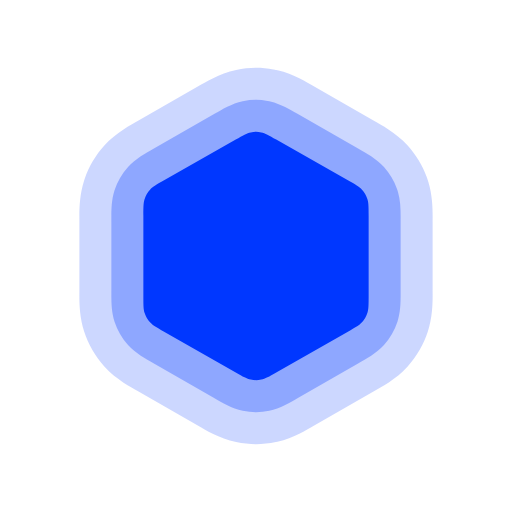
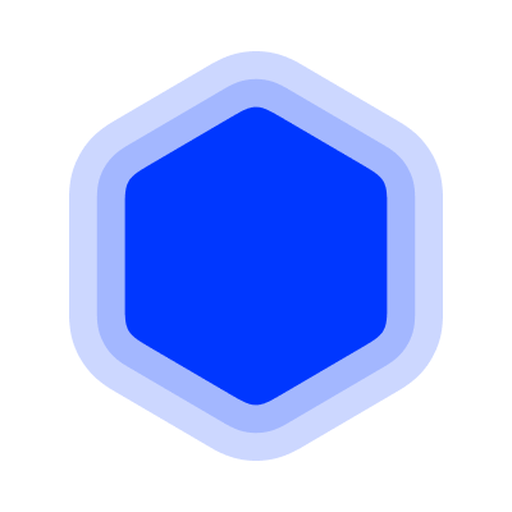
스와이프 시 탭 표시를 스크롤 연동 CSS 애니메이션으로(메인 스레드 갱신 제거), 스와이프 중 저장 지연·눌림 효과 지연, 타이머 하단 28pt, 아이콘 교체
Claude-Session: https://claude.ai/code/session_01EFYgkJpoynD9CeUVREE259

Changed region(s): [[0.125, 0.0938, 0.875, 0.9062]]

diff --git a/index.html b/index.html
@@ -9,9 +9,8 @@
 <meta name="apple-mobile-web-app-status-bar-style" content="default">
 <title>운동일지</title>
 <link rel="manifest" href="manifest.webmanifest">
-<link rel="apple-touch-icon" sizes="180x180" href="icon-180.png?v=2">
-<link rel="icon" type="image/svg+xml" href="icon.svg?v=2">
-<link rel="icon" type="image/png" sizes="192x192" href="icon-192.png?v=2">
+<link rel="apple-touch-icon" sizes="180x180" href="icon-180.png?v=3">
+<link rel="icon" type="image/png" sizes="192x192" href="icon-192.png?v=3">
 <meta name="theme-color" content="#eceef2" media="(prefers-color-scheme: light)">
 <meta name="theme-color" content="#0e1013" media="(prefers-color-scheme: dark)">
 <style>
@@ -33,6 +32,10 @@ header{background:var(--bg);padding:6px 12px 0}
 nav{display:flex;gap:4px;padding:4px 0 10px;position:relative}
 nav button{flex:1 1 0;min-width:0;text-align:center;height:46px;--r:12px;border-radius:var(--r);font-weight:700;font-size:16px;color:var(--mu);position:relative;z-index:1;transition:color .28s cubic-bezier(.25,1,.5,1)}
 nav button.on{color:#fff}
+body{timeline-scope:--pg}
+#pg{scroll-timeline:--pg x}
+@keyframes tbm{from{transform:translate3d(var(--x0),0,0)}to{transform:translate3d(var(--x1),0,0)}}
+#tbi.sd{animation:tbm 1s linear both;animation-timeline:--pg}
 #tbi{position:absolute;left:0;top:4px;height:46px;width:0;--r:12px;border-radius:var(--r);background:var(--ac);will-change:transform;pointer-events:none;transition:transform var(--d) var(--e)}
 #pg{flex:1;min-height:0;display:flex;overflow-x:auto;overflow-y:hidden;scroll-snap-type:x mandatory;scrollbar-width:none;overscroll-behavior-x:contain}
 #pg::-webkit-scrollbar{display:none}
@@ -118,7 +121,7 @@ nav button.on{color:#fff}
 .mn{display:flex;flex-direction:column;gap:8px;margin:0 0 14px}
 .mn .bk{text-align:center;color:var(--mu);font-size:13px;font-weight:600}
 .mn button{height:52px;--r:14px;border-radius:var(--r);background:var(--in);font-weight:700;font-size:17px}
-#tw{--tg:max(8px,calc(env(safe-area-inset-bottom,0px) - 16px));position:absolute;left:var(--tg);right:var(--tg);bottom:var(--tg);z-index:4;filter:drop-shadow(0 -1px 10px var(--sh))}
+#tw{--tg:max(8px,calc(env(safe-area-inset-bottom,0px) - 16px));position:absolute;left:var(--tg);right:var(--tg);bottom:max(8px,calc(env(safe-area-inset-bottom,0px) - 6px));z-index:4;filter:drop-shadow(0 -1px 10px var(--sh))}
 html{background:var(--cd)}
 w-in{display:block;box-sizing:border-box;white-space:nowrap;overflow:hidden;cursor:text;-webkit-user-select:text;user-select:text;-webkit-tap-highlight-color:transparent;caret-color:var(--ac)}
 w-in.ch{caret-color:transparent}
@@ -336,26 +339,36 @@ function build(){
 }
 function mark(noInd){[...$('#tb').querySelectorAll('button')].forEach((b,i)=>{if(b.classList.contains('on')!==(i===(tabGo>=0?tabGo:cur)))b.classList.toggle('on',i===(tabGo>=0?tabGo:cur))});if(tabGo<0&&!noInd)ind()}
 /* 선택 표시: 페이지가 넘어가는 만큼 같이 미끄러진다(스와이프·탭 모두) */
-function tabX(i){
-  const nb=$('#tb'),bs=nb.querySelectorAll('button'),nl=nb.getBoundingClientRect().left;
-  const L=k=>{const r=bs[k].getBoundingClientRect();return{x:r.left-nl,w:r.width}};
-  const a=Math.max(0,Math.min(bs.length-1,Math.floor(i))),b=Math.min(bs.length-1,a+1),f=Math.max(0,Math.min(1,i-a));
-  const A=L(a),B=L(b);return{x:A.x+(B.x-A.x)*f,w:A.w+(B.w-A.w)*f};
+/* 선택 표시 위치: 버튼은 같은 너비·간격이라 첫 버튼과 마지막 버튼 위치만 알면 된다 */
+const SD=!!(window.CSS&&CSS.supports&&CSS.supports('animation-timeline','--a')&&CSS.supports('timeline-scope','--a')&&CSS.supports('scroll-timeline','--a x'));
+let G=null;
+function geo(){
+  const t=$('#tbi'),nb=$('#tb'),bs=nb.querySelectorAll('button');if(!t||!bs.length)return;
+  const nl=nb.getBoundingClientRect().left,a=bs[0].getBoundingClientRect(),z=bs[bs.length-1].getBoundingClientRect();
+  const r=v=>Math.round(v*100)/100,w=r(a.width),x0=r(a.left-nl),x1=r(z.left-nl);
+  if(G&&G.t===t&&G.w===w&&G.x0===x0&&G.x1===x1)return;
+  G={t,w,x0,x1,n:bs.length};
+  t.style.width=w+'px';t.style.setProperty('--w',w+'px');t.style.setProperty('--h','46px');
+  t.style.setProperty('--x0',x0+'px');t.style.setProperty('--x1',x1+'px');
 }
-function ind(follow){
-  const t=$('#tbi'),bs=$('#tb').querySelectorAll('button');if(!t||!bs.length)return;
-  let pos;
-  if(follow){pos=Math.max(0,Math.min(bs.length-1,pg.scrollLeft/(pg.clientWidth||1)));t.style.transition='none'}
-  else{pos=cur;t.style.transition=''}
-  place(t,tabX(pos));
-}
-function place(t,p){
-  const w=Math.round(p.w*100)/100,x=Math.round(p.x*100)/100;
-  if(t._bw!==w){t._bw=w;t.style.width=w+'px';t.style.setProperty('--w',w+'px');t.style.setProperty('--h','46px')}
+const xAt=p=>Math.round((G.x0+(G.n>1?(G.x1-G.x0)*Math.max(0,Math.min(G.n-1,p))/(G.n-1):0))*100)/100;
+const pgPos=()=>pg.scrollLeft/(pg.clientWidth||1);
+function setX(t,x,anim){
+  const tr=anim?'':'none';if(t._tr!==tr){t._tr=tr;t.style.transition=tr}
   if(t._x!==x){t._x=x;t.style.transform='translate3d('+x+'px,0,0)'}
 }
+/* 스크롤 연동을 잠시 멈추고 지금 위치를 그대로 고정(탭 이동·화면 다시 그리기 전) */
+function freeze(t){
+  if(!t.classList.contains('sd'))return;
+  setX(t,xAt(pgPos()),0);t.classList.remove('sd');getComputedStyle(t).transform;
+}
+function ind(follow){
+  const t=$('#tbi');if(!t)return;geo();if(!G)return;
+  if(SD){if(tabGo<0)t.classList.add('sd');return}
+  setX(t,xAt(follow?pgPos():cur),!follow);
+}
 
-let tabMove=0,tabT=0,navT=0,tabGo=-1,goT=0;
+let tabMove=0,tabT=0,navT=0,tabGo=-1,goT=0,svT=0;
 /* 입력 중에 부위 탭을 누르면: 키보드 정리(여백·스크롤 복귀)는 탭 이동이 끝난 뒤 조용히 처리 */
 $('#tb').addEventListener('pointerdown',()=>{
   navT=performance.now();
@@ -369,13 +382,28 @@ $('#tb').onclick=e=>{
   if(a&&a.matches&&a.matches('w-in,input,textarea')&&a.closest('.pn')){tabMove=1;clearTimeout(tabT);a.blur();tabT=setTimeout(()=>{tabMove=0;hardRelease()},700)}
   root.classList.remove('kbo');
   tabGo=+b.dataset.i;goT=performance.now();
-  const t=$('#tbi');if(t){t.style.transition='';place(t,tabX(tabGo))}
+  const t=$('#tbi');if(t){geo();freeze(t);setX(t,xAt(tabGo),1)}
   mark();
   pg.scrollTo({left:b.dataset.i*pg.clientWidth,behavior:'smooth'});
+  settle(tabGo);
 };
+/* 탭 이동 스크롤이 끝나면 다시 스크롤 연동으로(같은 위치라 튀지 않음) */
+let stTok=0;
+function settle(i){
+  const tok=++stTok,t0=performance.now();let last=-1,still=0;
+  const step=()=>{
+    if(tok!==stTok||tabGo!==i)return;
+    const x=pg.scrollLeft;still=Math.abs(x-last)<.5?still+1:0;last=x;
+    const el=performance.now()-t0;
+    if((still>=3&&Math.abs(x-i*pg.clientWidth)<1&&el>DUR+40)||el>1400){tabGo=-1;mark();return}
+    requestAnimationFrame(step);
+  };
+  requestAnimationFrame(step);
+}
 pg.addEventListener('scroll',()=>{
   if(building)return;
-  if(tabGo<0||performance.now()-goT>900){tabGo=-1;ind(1)}
+  if(tabGo>=0&&performance.now()-goT>1500){tabGo=-1;mark()}
+  if(tabGo<0&&!SD)ind(1);
   if(!tabMove&&Math.abs(pg.scrollLeft-cur*pg.clientWidth)>24){
     const a=document.activeElement;
     if(a&&a.matches&&a.matches('w-in,input,textarea')&&a.closest('.pn')){
@@ -384,10 +412,10 @@ pg.addEventListener('scroll',()=>{
     }
   }
   const i=Math.round(pg.scrollLeft/pg.clientWidth);
-  if(i!==cur&&i>=0&&i<S.tabs.length){cur=i;S.t=i;lsave()}
+  if(i!==cur&&i>=0&&i<S.tabs.length){cur=i;S.t=i;clearTimeout(svT);svT=setTimeout(lsave,450)}
   mark(1);
 },{passive:true});
-function resync(){if(building||performance.now()-navT<900)return;const x=cur*pg.clientWidth;if(Math.abs(pg.scrollLeft-x)>2)pg.scrollLeft=x;mark()}
+function resync(){G=null;if(building||performance.now()-navT<900)return;const x=cur*pg.clientWidth;if(Math.abs(pg.scrollLeft-x)>2)pg.scrollLeft=x;mark()}
 addEventListener('resize',resync);addEventListener('pageshow',resync);
 document.addEventListener('visibilitychange',()=>{if(!document.hidden)resync()});
 
@@ -616,7 +644,7 @@ async function editEx(c){
 }
 pg.addEventListener('pointerdown',ev=>{
   const h=ev.target.closest('.h');if(!h||ev.target.closest('button'))return;
-  lx=ev.clientX;ly=ev.clientY;lc=h.closest('.c');lc.classList.add('pr');
+  lx=ev.clientX;ly=ev.clientY;lc=h.closest('.c');{const c=lc;clearTimeout(c._pp);c._pp=setTimeout(()=>{if(lt&&lc===c)c.classList.add('pr')},90)}
   clearTimeout(lt);
   lt=setTimeout(()=>{lt=0;lp=1;dgEl.classList.add('hold');editEx(lc)},420);
 });
@@ -646,7 +674,7 @@ $('#pl').onclick=e=>{
   const b=e.target.closest('button');if(!b)return;
   const l=+b.dataset.l;if(l===S.loc)return;
   S.loc=l;save();markPl();
-  tabGo=cur;goT=performance.now();build();
+  tabGo=cur;goT=performance.now();{const t=$('#tbi');if(t){geo();freeze(t);setX(t,xAt(cur),0)}}build();
   requestAnimationFrame(()=>requestAnimationFrame(()=>{pg.scrollLeft=cur*pg.clientWidth;if(tabGo===cur)tabGo=-1;mark()}));
   panels.forEach(p=>{p.querySelector('.ps').scrollTop=0});
   if(DUR)pg.animate([{opacity:0,transform:'translateY(8px)'},{opacity:1,transform:'none'}],{duration:DUR,easing:EZ});
@@ -690,7 +718,7 @@ $('#ti').onclick=()=>{
 
 build();mark();markPl();
 requestAnimationFrame(()=>pg.scrollTo({left:cur*pg.clientWidth}));
-const BUILD='20261106q';
+const BUILD='20261106r';
 async function chk(){
   try{
     if(!window.fetch||location.protocol.indexOf('http')!==0)return;

diff --git a/sw.js b/sw.js
@@ -1,4 +1,4 @@
-const C='wlog-v27',A=['./','index.html','manifest.webmanifest','icon-180.png','icon-192.png','icon-512.png','icon.svg'];
+const C='wlog-v28',A=['./','index.html','manifest.webmanifest','icon-180.png','icon-192.png','icon-512.png'];
 self.addEventListener('install',e=>{e.waitUntil(caches.open(C).then(c=>c.addAll(A)).then(()=>self.skipWaiting()))});
 self.addEventListener('activate',e=>{e.waitUntil(caches.keys().then(k=>Promise.all(k.filter(x=>x!==C).map(x=>caches.delete(x)))).then(()=>clients.claim()))});
 // 인터넷이 되면 항상 최신 파일을 받고(성공 응답만 저장), 서버 오류·오프라인이면 저장해 둔 화면으로 엽니다.
